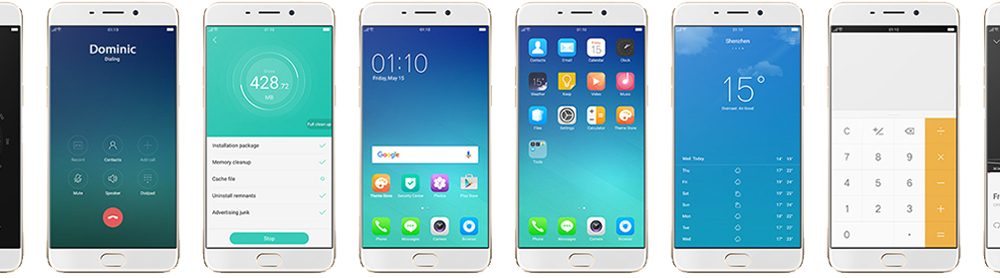
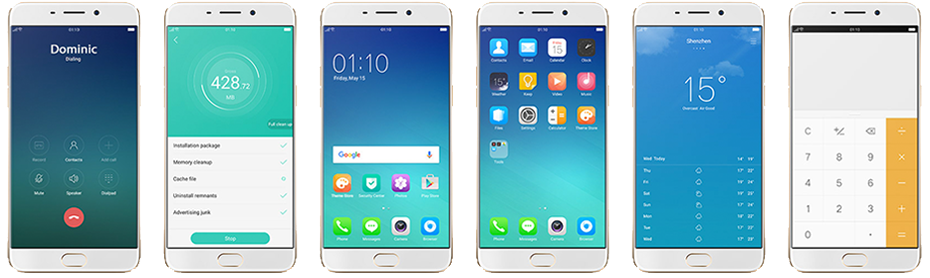
a59

diff --git a/oppo/a59/base.css b/oppo/a59/base.css
@@ -86,7 +86,6 @@ p{ font-size:120%; }
 .os{ background-color: #ECECEC; padding:4% 0; text-align: center; }
 .os p{ width:50%; margin:0 auto; }
 .os .row:last-child{ margin-top:4%; }
-.os img{ width:100%; }
 
 .package .row, .gift .row{ width:65%; margin:0 auto; }
 .package .row{ padding:4% 0; }

diff --git a/oppo/a59s/base.css b/oppo/a59s/base.css
@@ -86,7 +86,6 @@ p{ font-size:120%; }
 .os{ background-color: #ECECEC; padding:4% 0; text-align: center; }
 .os p{ width:50%; margin:0 auto; }
 .os .row:last-child{ margin-top:4%; }
-.os img{ width:100%; }
 
 .package .row, .gift .row{ width:65%; margin:0 auto; }
 .package .row{ padding:4% 0; }
